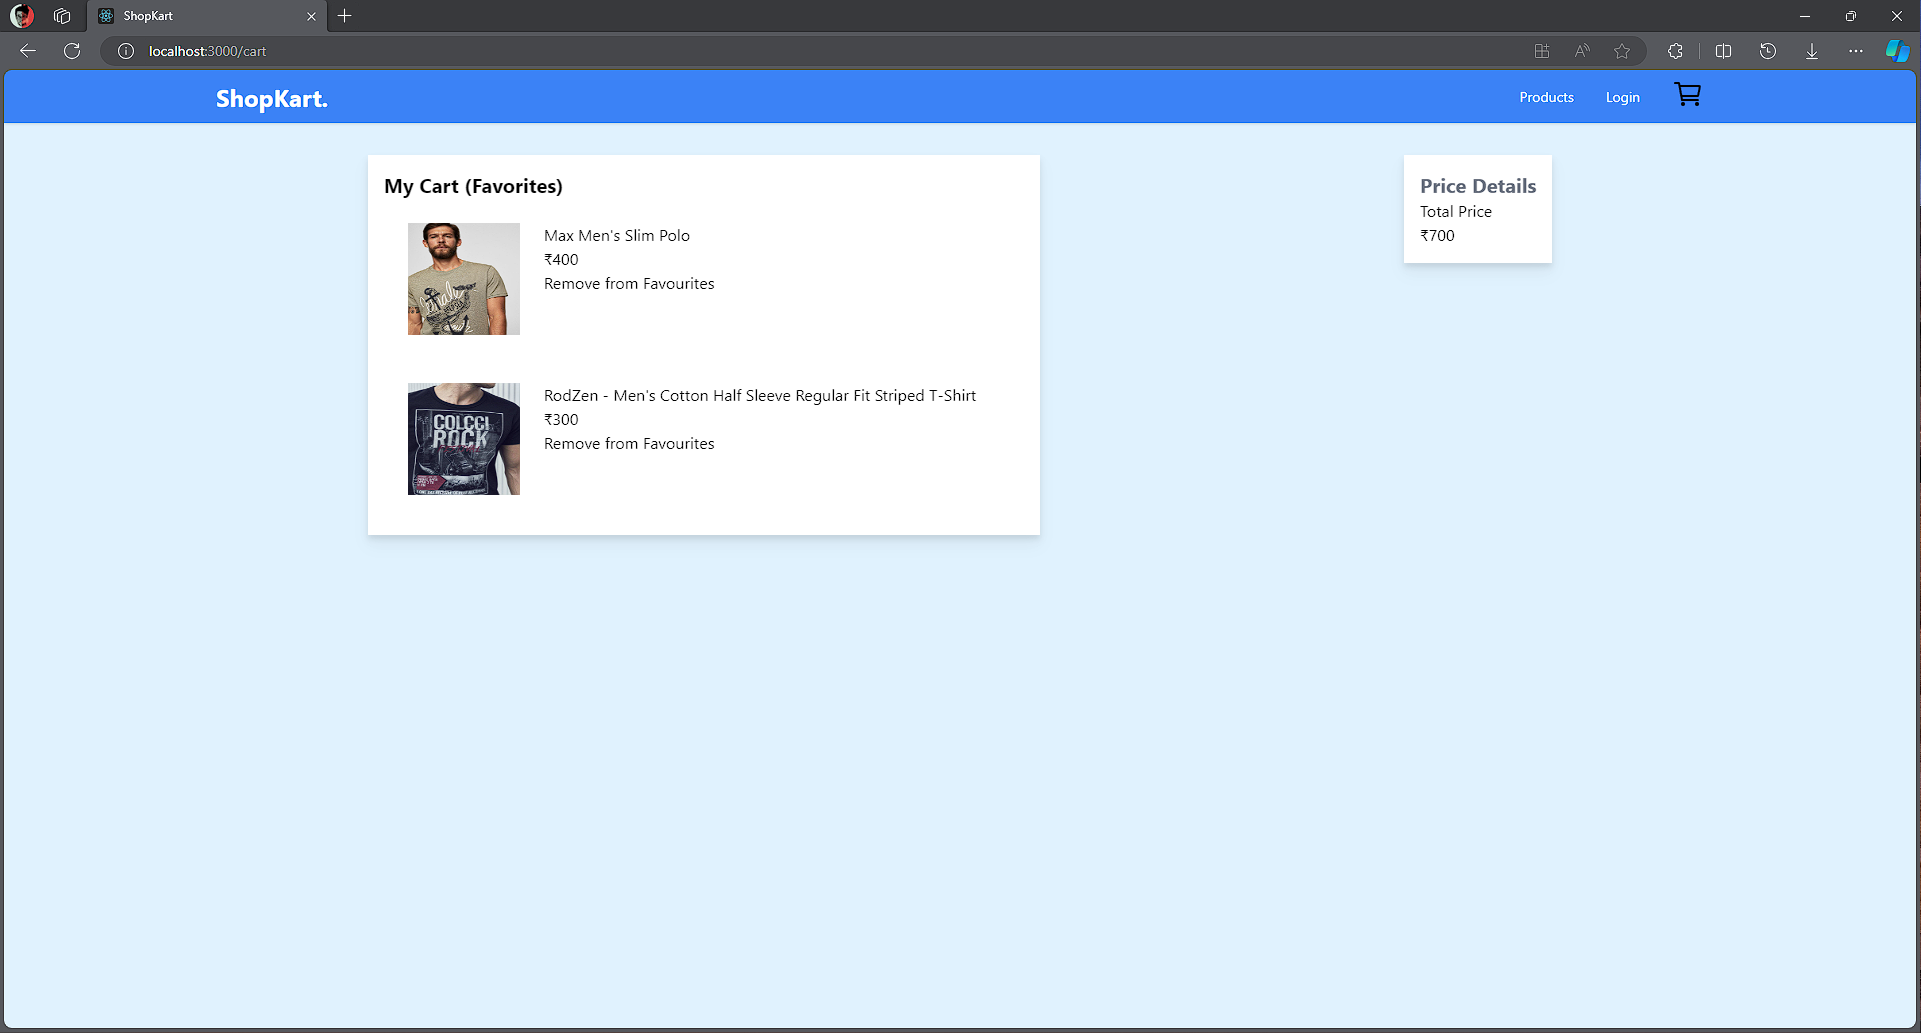
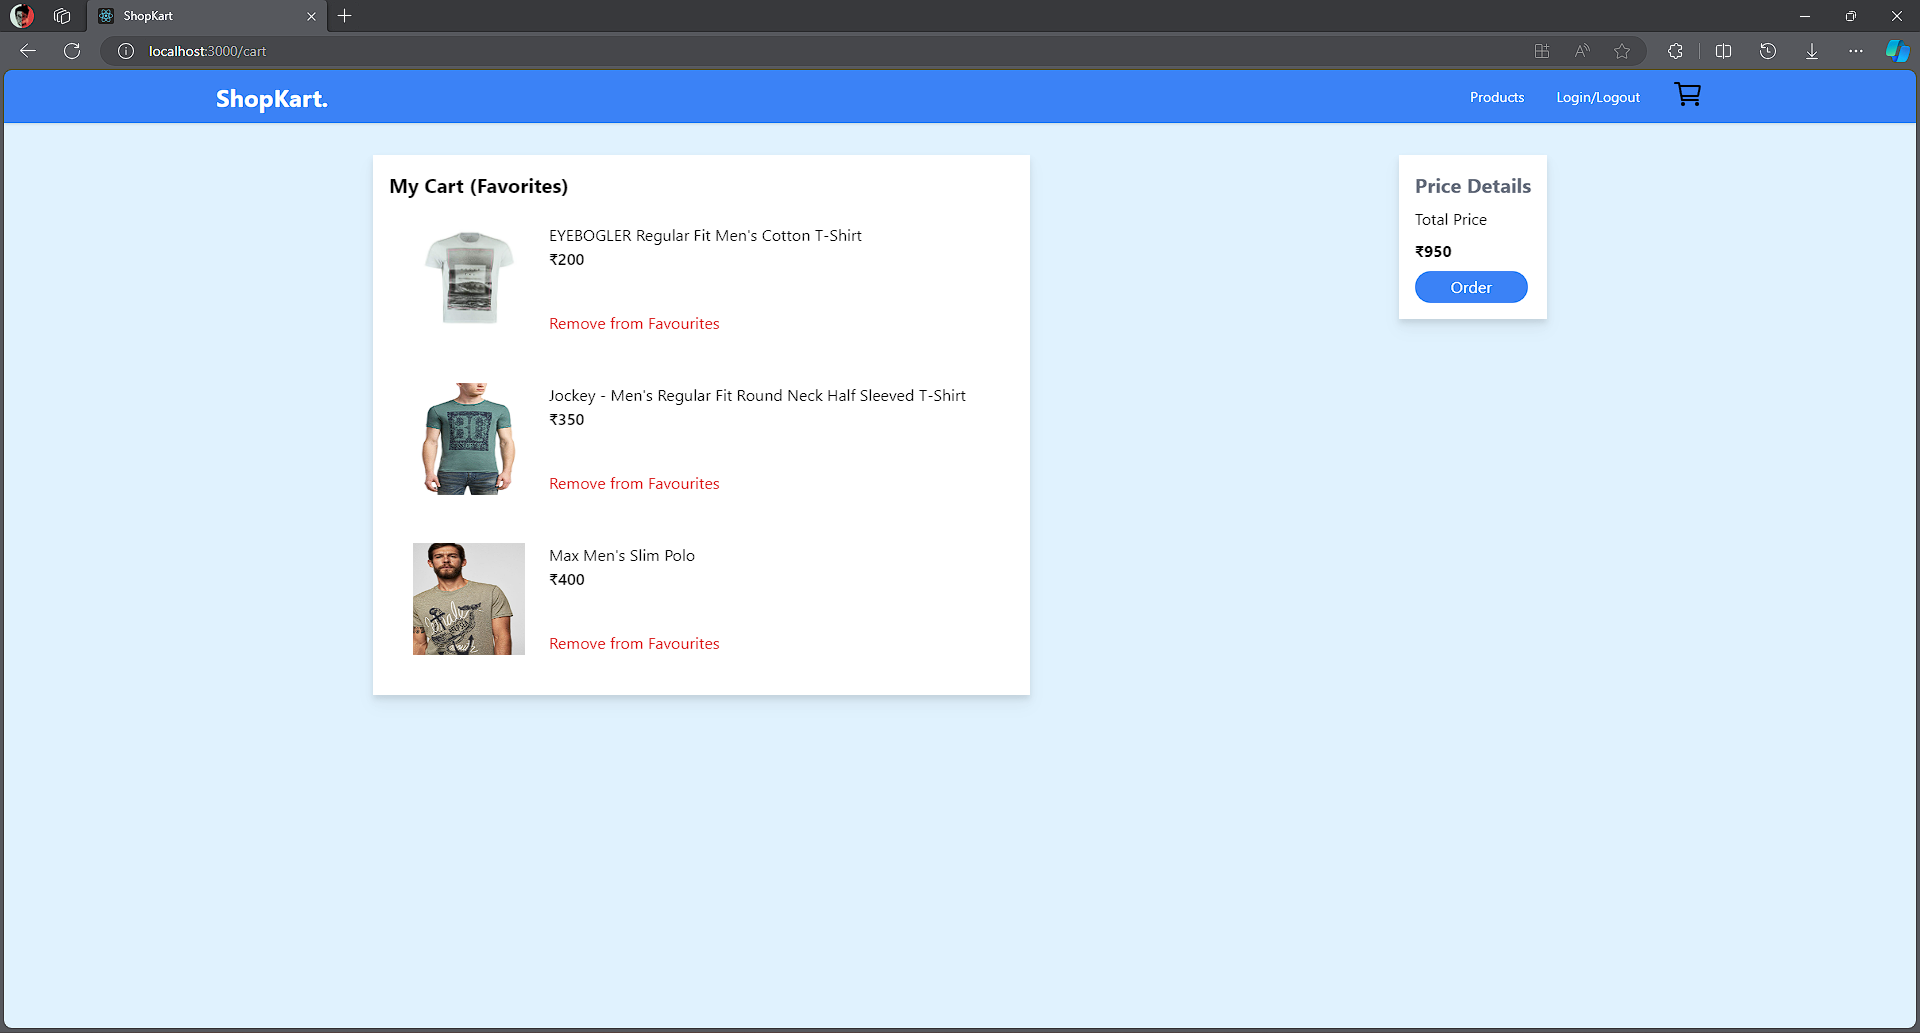
Screenshots and fixes

diff --git a/src/Components/CartPage.jsx b/src/Components/CartPage.jsx
@@ -1,5 +1,7 @@
 import React from 'react';
 import { useSelector, useDispatch } from 'react-redux';
+import { ToastContainer, toast } from 'react-toastify';
+import 'react-toastify/dist/ReactToastify.css';
 
 const CartPage = () => {
   const favourites = useSelector(state => state.favourites);
@@ -42,6 +44,7 @@ const CartPage = () => {
         })
         .then(response => response.json())
         .then(data => {
+          toast("Wow so easy!");
           console.log('Success:', data);
           dispatch({ type: 'ADD_TO_ORDERS', payload: product });
         })
@@ -64,21 +67,21 @@ const CartPage = () => {
           <div key={item.id} className="p-6">
             <div className="flex">
               <img src={item.image} className="h-28 w-28" alt={item.title} />
-            <div className="flex-col justify-evenly mx-6">
+            <div className="flex-col mx-6 ">
             <h2>{item.title}</h2>
-            <p>₹{item.amount}</p>
-            <button onClick={() => handleRemoveFromFavourites(item)} className="hover:text-red-600 transition">Remove from Favourites</button>
+            <p className='font-semibold'>₹{item.amount}</p>
+            <button onClick={() => handleRemoveFromFavourites(item)} className="mt-10 text-red-600">Remove from Favourites</button>
             </div>
             </div>
           </div>
         ))}
          
       </div>
-      <div className=" p-4 bg-white h-min drop-shadow-lg">
-        <h1 className="text-xl text-gray-500 font-bold">Price Details</h1>
+      <div className="flex-col space-y-2 p-4 bg-white h-min drop-shadow-lg">
+        <h1 className=" text-xl text-gray-500 font-bold">Price Details</h1>
         <h2>Total Price</h2>
-        <p>₹{totalPrice}</p>
-        <button onClick={handleOrder}>Order</button>
+        <p className='font-bold'>₹{totalPrice}</p>
+        <button className=" bg-blue-500 rounded-2xl py-1 px-9 text-white" onClick={handleOrder}>Order</button>
       </div>
     </div>
   );
